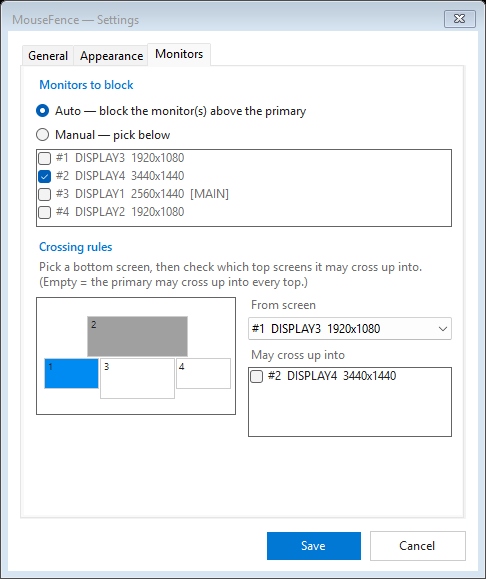
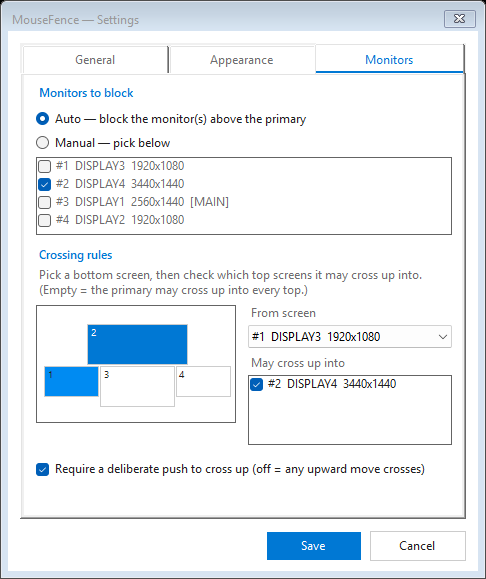
Polish: dark-themed tab headers + a toggle for deliberate-vs-free crossing
- Owner-draw the settings TabControl so the tab strip follows the theme (the
  headers no longer stay white in dark mode); selected tab gets an accent underline.
- New "Require a deliberate push to cross up" option (Monitors tab): on keeps the
  intent check (slow/jitter/corners don't cross), off lets any upward move cross.
- Wider fixed tabs so the header strip fills cleanly.

diff --git a/SettingsForm.cs b/SettingsForm.cs
@@ -24,6 +24,7 @@ public sealed class SettingsForm : Form
 
     private readonly TabControl _tabs;
     private readonly TextBox _gameHotkeyBox;
+    private readonly CheckBox _deliberateCheck;
     private readonly Dictionary<string, HashSet<string>> _rules = new();
     private bool _mc, _ma, _ms, _mw;
     private Keys _key;
@@ -64,7 +65,8 @@ public sealed class SettingsForm : Form
 
         var headFont = new Font("Segoe UI Semibold", 9f);
 
-        _tabs = new TabControl { Left = 12, Top = 12, Width = 446, Height = 476 };
+        _tabs = new TabControl { Left = 12, Top = 12, Width = 446, Height = 476, DrawMode = TabDrawMode.OwnerDrawFixed, SizeMode = TabSizeMode.Fixed, ItemSize = new Size(147, 28) };
+        _tabs.DrawItem += DrawTab;
         var tabGeneral = new TabPage(Strings.TabGeneral) { Padding = new Padding(10) };
         var tabAppearance = new TabPage(Strings.TabAppearance) { Padding = new Padding(10) };
         var tabMonitors = new TabPage(Strings.TabMonitors) { Padding = new Padding(10) };
@@ -159,6 +161,9 @@ public sealed class SettingsForm : Form
         _topsCheck.ItemCheck += TopsCheck_ItemCheck;
         tabMonitors.Controls.Add(_topsCheck);
 
+        _deliberateCheck = new CheckBox { Text = Strings.DeliberateCrossLabel, Left = 12, Top = 378, Width = 416, Height = 34, Checked = s.DeliberateCross };
+        tabMonitors.Controls.Add(_deliberateCheck);
+
         if (_bottoms.Count > 0 && _tops.Count > 0) { _fromCombo.SelectedIndex = 0; }
 
         // ---- buttons ----
@@ -250,9 +255,24 @@ public sealed class SettingsForm : Form
 
     private Theme SelectedTheme() => Theming.Resolve(_themeCombo.SelectedIndex switch { 1 => "Light", 2 => "Dark", _ => "System" });
 
+    private void DrawTab(object sender, DrawItemEventArgs e)
+    {
+        var t = SelectedTheme();
+        var rect = _tabs.GetTabRect(e.Index);
+        bool sel = e.Index == _tabs.SelectedIndex;
+        using (var bg = new SolidBrush(sel ? t.Surface : t.Back))
+            e.Graphics.FillRectangle(bg, rect);
+        if (sel)
+            using (var bar = new SolidBrush(t.Accent))
+                e.Graphics.FillRectangle(bar, rect.X, rect.Bottom - 2, rect.Width, 2);
+        TextRenderer.DrawText(e.Graphics, _tabs.TabPages[e.Index].Text, _tabs.Font, rect,
+            sel ? t.Accent : t.Subtle, TextFormatFlags.HorizontalCenter | TextFormatFlags.VerticalCenter | TextFormatFlags.EndEllipsis);
+    }
+
     private void ApplyThemeLive()
     {
         Theming.Apply(this, SelectedTheme());
+        _tabs.Invalidate();
         _map.Invalidate();
         Invalidate(true);
     }
@@ -328,6 +348,7 @@ public sealed class SettingsForm : Form
             Language = _langCombo.SelectedIndex switch { 1 => "en", 2 => "tr", _ => "auto" },
             Theme = _themeCombo.SelectedIndex switch { 1 => "Light", 2 => "Dark", _ => "System" },
             ConfineModCtrl = _gc, ConfineModAlt = _ga, ConfineModShift = _gs, ConfineModWin = _gw, ConfineHotKey = _gkey,
+            DeliberateCross = _deliberateCheck.Checked,
         };
 
         if (res.Mode == "Manual")

diff --git a/Strings.cs b/Strings.cs
@@ -69,6 +69,7 @@ public static class Strings
     public static string AllowedTopsLabel => G("AllowedTopsLabel");
     public static string RuleHint => G("RuleHint");
     public static string NoTopsHint => G("NoTopsHint");
+    public static string DeliberateCrossLabel => G("DeliberateCrossLabel");
     public static string MenuGame => G("MenuGame");
     public static string GameHotkeyHead => G("GameHotkeyHead");
     public static string GameHotkeyHint => G("GameHotkeyHint");
@@ -124,6 +125,7 @@ public static class Strings
         ["AllowedTopsLabel"] = "May cross up into",
         ["RuleHint"] = "Pick a bottom screen, then check which top screens it may cross up into. (Empty = the primary may cross up into every top.)",
         ["NoTopsHint"] = "No top monitors detected — nothing to configure.",
+        ["DeliberateCrossLabel"] = "Require a deliberate push to cross up (off = any upward move crosses)",
         ["MenuGame"] = "Game mode (confine cursor)",
         ["GameHotkeyHead"] = "Game mode hotkey",
         ["GameHotkeyHint"] = "Confine the cursor to its monitor (windowed/borderless games; not exclusive-fullscreen).",

diff --git a/GuardCore.cs b/GuardCore.cs
@@ -16,6 +16,7 @@ public sealed class GuardCore
 {
     public int CrossMinUp = 3;     // min upward px in a move to count as a deliberate cross
     public int CrossSlack = 5;     // allowed horizontal beyond the vertical component
+    public bool DeliberateCross = true;   // true: a deliberate push is required; false: any upward move crosses
 
     public bool HasTop;
     public int BarrierY;
@@ -105,7 +106,8 @@ public sealed class GuardCore
         bool inGate = gatesEnabled && LastY >= BarrierY && InSameGate(x, LastX);
         int dxAbs = Math.Abs(x - LastX);
         int dyUp = LastY - y;
-        if (inGate && dyUp >= CrossMinUp && dxAbs <= dyUp + CrossSlack)
+        bool intent = DeliberateCross ? (dyUp >= CrossMinUp && dxAbs <= dyUp + CrossSlack) : dyUp > 0;
+        if (inGate && intent)
         {
             OnTop = true;
             Accept(x, y);

diff --git a/tests/Tests.cs b/tests/Tests.cs
@@ -220,6 +220,14 @@ Console.WriteLine("MouseFence barrier logic — scenario tests\n");
     Check("game mode: leaving upward is also blocked", up.act == GuardAction.Block, $"act={up.act}");
 }
 
+// ---- deliberate-cross toggle: OFF = any upward move crosses ----
+{
+    var c = New(); c.DeliberateCross = false;
+    Move(c, 1280, 0, true);
+    var r = Move(c, 1290, -3, true);          // would be blocked when deliberate is ON
+    Check("deliberate OFF: any upward move through the gate crosses", r.act == GuardAction.Pass && r.onTop, $"act={r.act}");
+}
+
 Console.WriteLine();
 Console.WriteLine(fails == 0 ? "ALL TESTS PASSED" : $"{fails} TEST(S) FAILED");
 Environment.Exit(fails == 0 ? 0 : 1);

diff --git a/MouseGuard.cs b/MouseGuard.cs
@@ -25,6 +25,13 @@ public sealed class MouseGuard : IDisposable
         set => _core.Confine = value;
     }
 
+    /// <summary>When true a deliberate upward push is required to cross; when false any upward move crosses.</summary>
+    public bool DeliberateCross
+    {
+        get => _core.DeliberateCross;
+        set => _core.DeliberateCross = value;
+    }
+
     public MouseGuard() => _proc = HookCallback;
 
     /// <summary>Configure the barrier from the top monitors, the allowed crossing gates, and all monitor rects (for game mode).</summary>

diff --git a/Settings.cs b/Settings.cs
@@ -22,6 +22,7 @@ public sealed class Settings
     // behaviour
     public bool StartGateClosed { get; set; } = true;  // main->top crossing blocked at launch
     public bool AutoStart { get; set; } = false;       // launch with Windows
+    public bool DeliberateCross { get; set; } = true;  // true: deliberate push to cross; false: any upward move
 
     // which monitors to block
     public string Mode { get; set; } = "AutoTop";   // "AutoTop" | "Manual"

diff --git a/TrayApplicationContext.cs b/TrayApplicationContext.cs
@@ -98,6 +98,7 @@ public sealed class TrayApplicationContext : ApplicationContext
         }
 
         _guard.Configure(tops.Select(t => t.Bounds), gates, monitors.Select(m => m.Bounds));
+        _guard.DeliberateCross = _settings.DeliberateCross;
     }
 
     private void RegisterHotkey()
